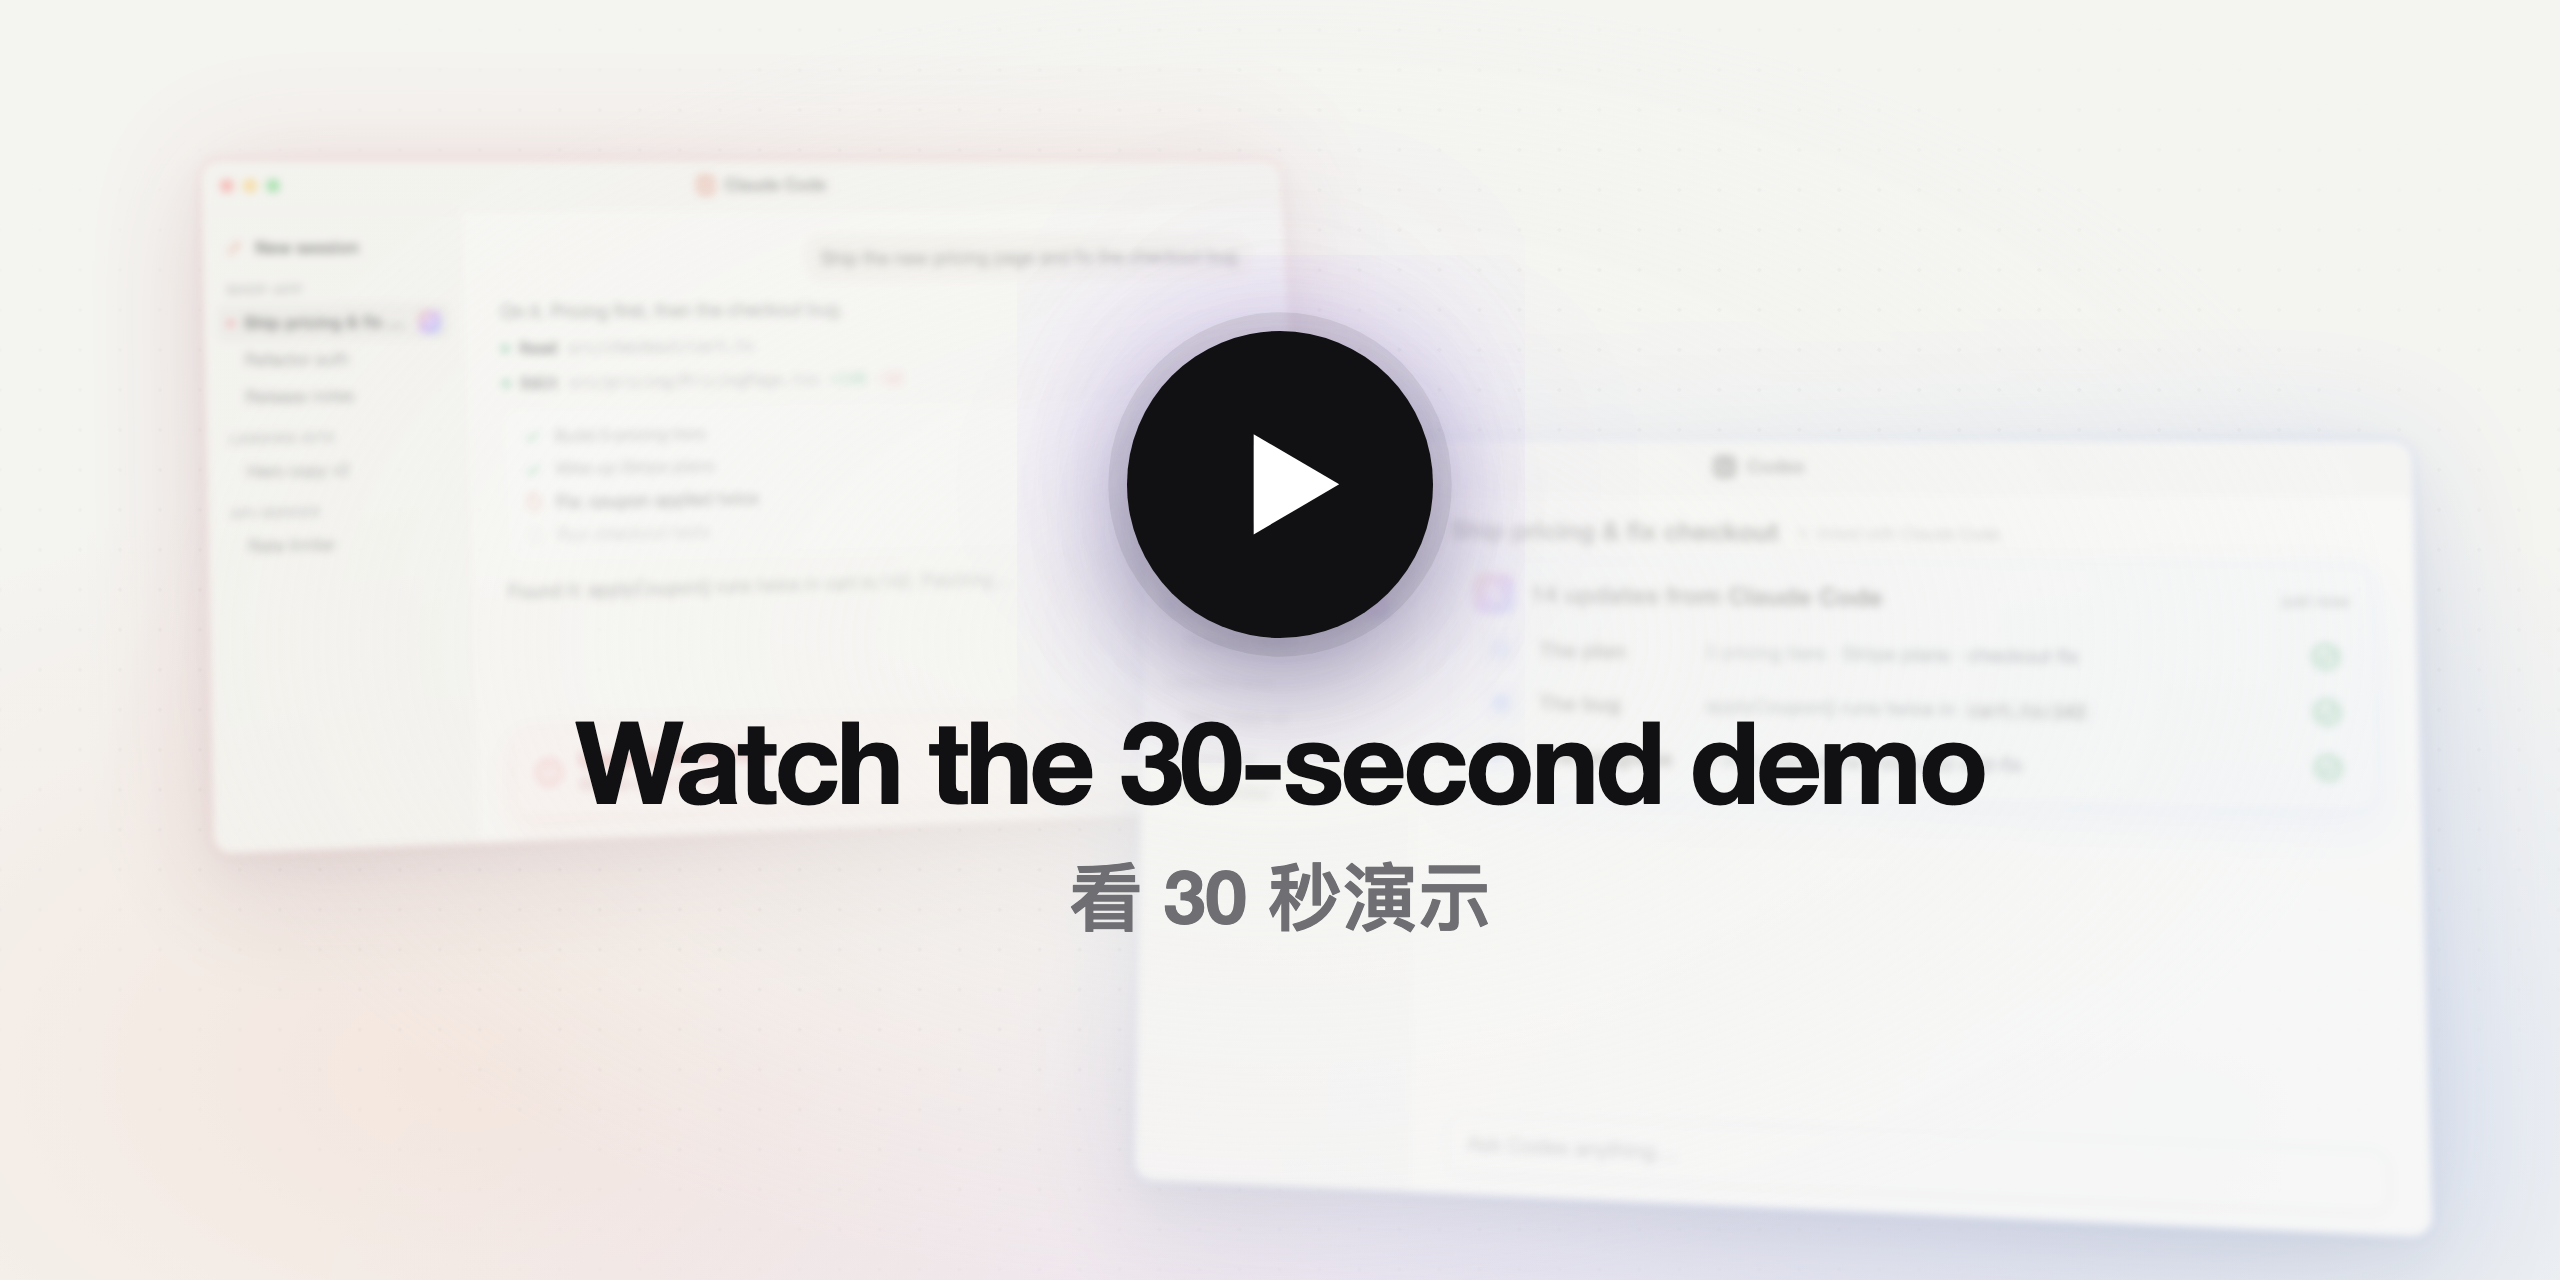
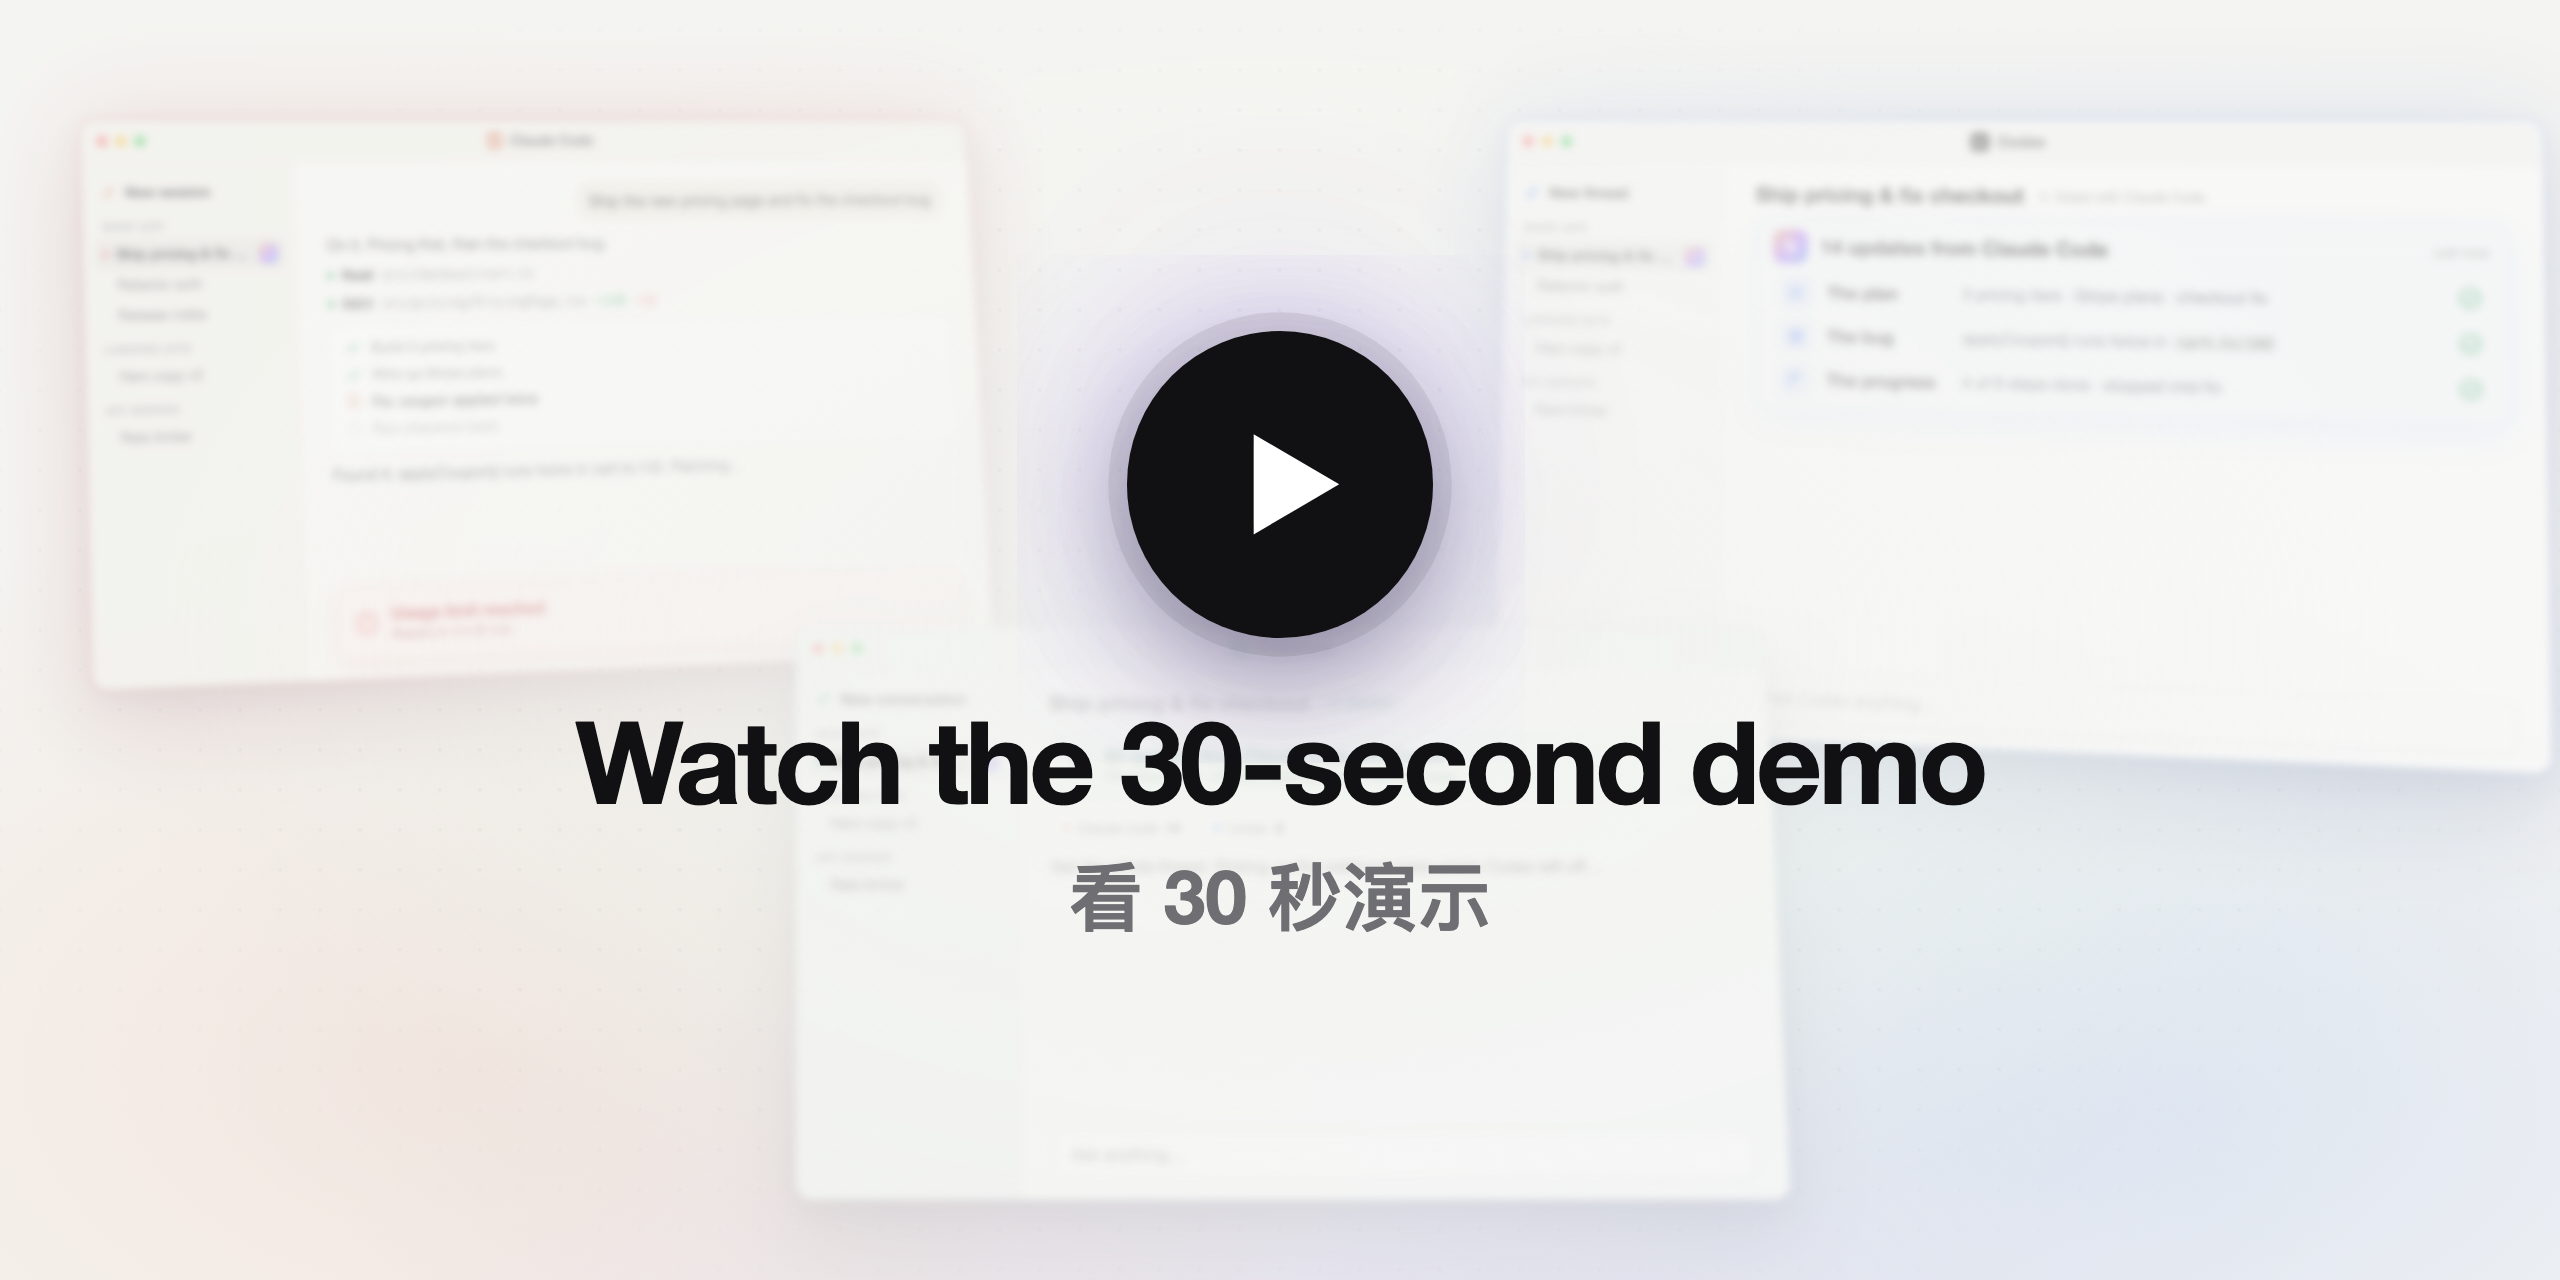
Link the three-app demo video and refresh its thumbnail

diff --git a/README.md b/README.md
@@ -17,7 +17,7 @@
   <img src="docs/hero.png" alt="ccx - claudecodex: Claude Code ⇄ Codex ⇄ Antigravity. 1. One agent hits its limit. 2. Choose another app from ⇄. 3. Gemini in Antigravity picks up the task." width="100%">
 </p>
 <p align="center">
-  <a href="https://github.com/user-attachments/assets/515f88d4-9b50-4b0d-ad6c-8485409a99d3"><b>🎬 Watch 30 second demo · Claude ⇄ Codex 双端演示</b></a>
+  <a href="https://github.com/user-attachments/assets/2fc0f1d6-5e28-40db-a4e0-d97eb6930b2f"><b>🎬 Watch 30 second demo · 看 30 秒演示</b></a>
 </p>
 
 ## Why ccx · 为什么需要它
